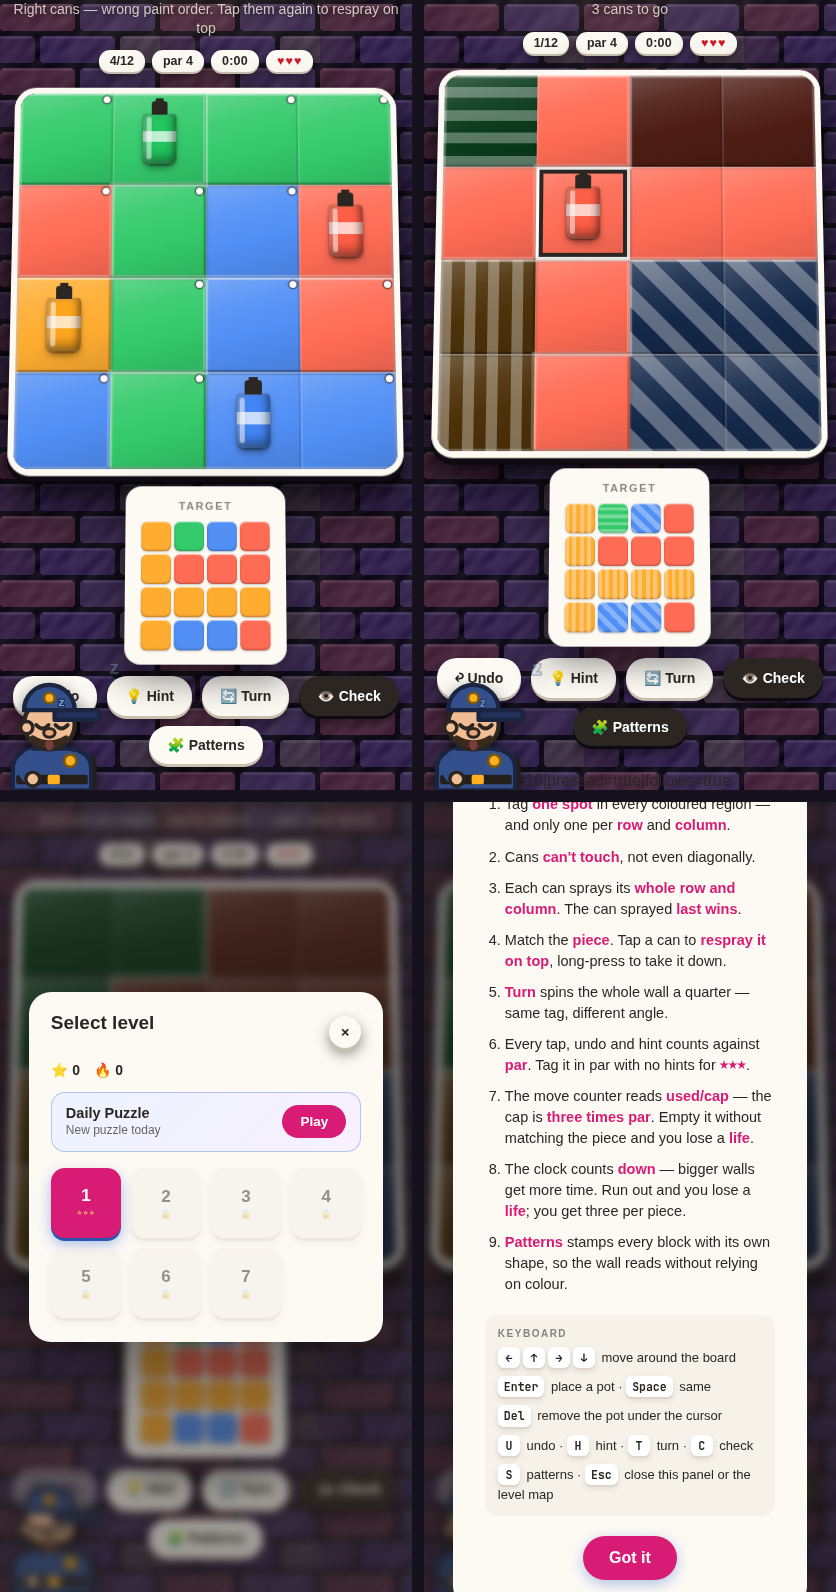
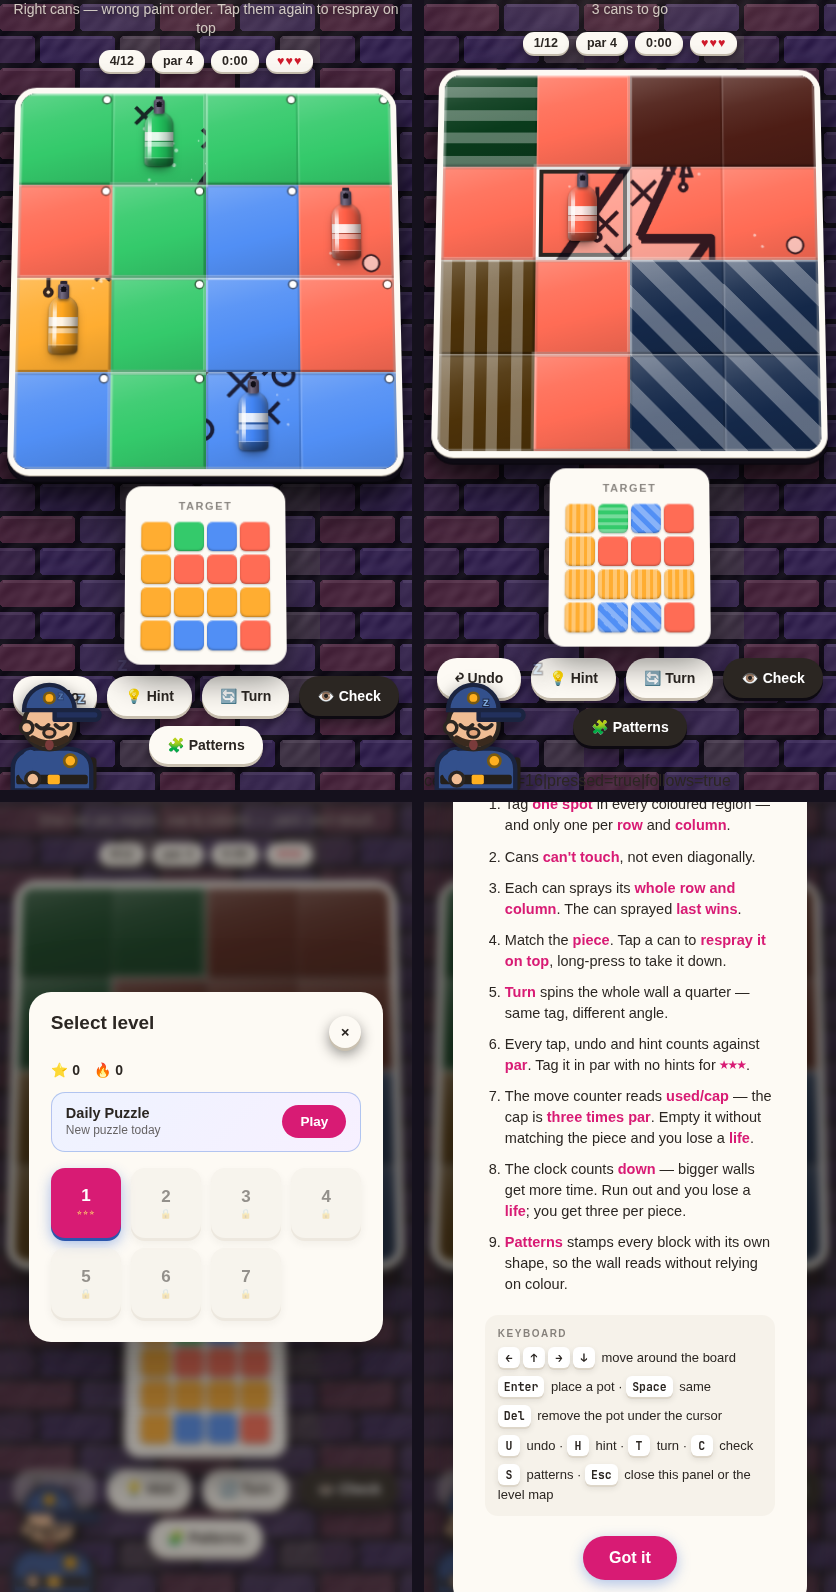
thebuff: mural reveals as you paint, new spray can art, refreshed screenshots

diff --git a/thebuff-live/index.html b/thebuff-live/index.html
@@ -261,43 +261,69 @@ main {
 .orb {
   position: relative;
   z-index: 3;
-  width: 36%;
-  height: 56%;
-  border-radius: 4px 4px 7px 7px;
+  width: 31%;
+  height: 60%;
+  border-radius: 46% 46% 18% 18% / 26% 26% 8% 8%;
   box-shadow:
-    0 5px 9px -3px rgba(0, 0, 0, 0.6),
+    0 6px 11px -4px rgba(0, 0, 0, 0.62),
     0 1px 2px rgba(0, 0, 0, 0.45),
-    inset 0 -7px 11px rgba(0, 0, 0, 0.38),
-    inset 4px 0 7px rgba(255, 255, 255, 0.3),
-    inset -3px 0 7px rgba(0, 0, 0, 0.3);
-  background-image: linear-gradient(
-    to bottom,
-    rgba(255, 255, 255, 0) 0 34%,
-    rgba(255, 255, 255, 0.72) 34% 56%,
-    rgba(255, 255, 255, 0) 56% 100%
-  );
-  z-index: 2;
+    inset 0 -4px 7px rgba(0, 0, 0, 0.32),
+    inset 0 3px 5px rgba(255, 255, 255, 0.22);
+  background-image:
+    linear-gradient(
+      90deg,
+      rgba(255, 255, 255, 0.4) 0%,
+      rgba(255, 255, 255, 0.12) 16%,
+      rgba(255, 255, 255, 0) 46%,
+      rgba(0, 0, 0, 0.16) 76%,
+      rgba(0, 0, 0, 0.36) 100%
+    ),
+    linear-gradient(
+      180deg,
+      rgba(0, 0, 0, 0) 0 84%,
+      rgba(255, 255, 255, 0.32) 84% 86.5%,
+      rgba(0, 0, 0, 0.34) 86.5% 100%
+    ),
+    linear-gradient(
+      180deg,
+      rgba(0, 0, 0, 0) 0 37%,
+      rgba(255, 255, 255, 0.88) 37% 53%,
+      rgba(0, 0, 0, 0.3) 53% 56%,
+      rgba(255, 255, 255, 0.55) 56% 65%,
+      rgba(0, 0, 0, 0) 65% 100%
+    );
 }
 .orb::before {
   content: "";
   position: absolute;
-  top: -24%;
-  left: 26%;
-  width: 48%;
+  top: -22%;
+  left: 31%;
+  width: 38%;
   height: 26%;
-  border-radius: 3px 3px 1px 1px;
-  background: #2b2622;
-  box-shadow: 0 -7px 0 -4px #2b2622;
+  border-radius: 3px 3px 2px 2px;
+  background:
+    radial-gradient(circle at 50% 36%, #100e17 0 26%, transparent 28%),
+    linear-gradient(90deg, #4b4356 0%, #766d84 34%, #382f40 100%);
+  box-shadow:
+    0 -5px 0 -2px #2a2433,
+    0 2px 3px rgba(0, 0, 0, 0.45);
 }
 .orb::after {
   content: "";
   position: absolute;
   left: 11%;
-  top: 7%;
-  width: 15%;
-  height: 84%;
-  border-radius: 3px;
-  background: rgba(255, 255, 255, 0.5);
+  top: 9%;
+  width: 14%;
+  height: 82%;
+  border-radius: 999px;
+  background: linear-gradient(
+    180deg,
+    rgba(255, 255, 255, 0) 0%,
+    rgba(255, 255, 255, 0.72) 24%,
+    rgba(255, 255, 255, 0.72) 76%,
+    rgba(255, 255, 255, 0) 100%
+  );
+  pointer-events: none;
 }
 .orb.pop { animation: pop 0.42s cubic-bezier(0.2, 0.9, 0.3, 1.4); }
 @media (hover: hover) and (prefers-reduced-motion: no-preference) {

diff --git a/thebuff-live/ui.js b/thebuff-live/ui.js
@@ -807,12 +807,13 @@
 
   function applyMural() {
     if (!level || !cellEls.length) return;
-    const placed = placedCount() === n;
-    const show = won || (save.diff && placed);
     for (let i = 0; i < n * n; i++) {
       const el = cellEls[i];
       if (!el) continue;
-      el.classList.toggle("reveal", !!(show && pattern && pattern[i] === level.target[i]));
+      el.classList.toggle(
+        "reveal",
+        !!pattern && pattern[i] === level.target[i]
+      );
     }
   }
 
